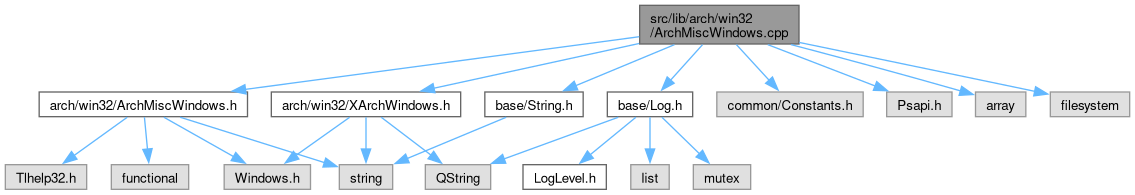
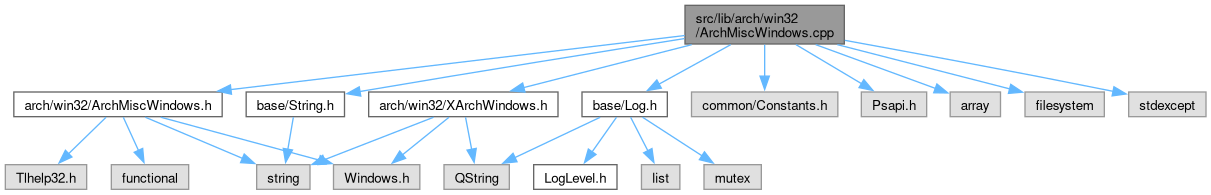
Deploying to gh-pages from @ PterX/synergy@86c8c66b6ef4296e9652ddb3b81552860b5e9a8a 🚀

diff --git a/ArchMiscWindows_8h_source.html b/ArchMiscWindows_8h_source.html
@@ -224,26 +224,26 @@ $(function(){initNavTree('ArchMiscWindows_8h_source.html','',''); });
 <div class="ttc" id="aclassArchMiscWindows_html_a0338c2fb1a7194e19af8961ef0db4e24a4caac1cd8b05302637732a78eb73315c"><div class="ttname"><a href="classArchMiscWindows.html#a0338c2fb1a7194e19af8961ef0db4e24a4caac1cd8b05302637732a78eb73315c">ArchMiscWindows::kDISPLAY</a></div><div class="ttdeci">@ kDISPLAY</div><div class="ttdef"><b>Definition</b> ArchMiscWindows.h:36</div></div>
 <div class="ttc" id="aclassArchMiscWindows_html_a0338c2fb1a7194e19af8961ef0db4e24a9f8aae41756526ccfd025d165c405327"><div class="ttname"><a href="classArchMiscWindows.html#a0338c2fb1a7194e19af8961ef0db4e24a9f8aae41756526ccfd025d165c405327">ArchMiscWindows::kIDLE</a></div><div class="ttdeci">@ kIDLE</div><div class="ttdef"><b>Definition</b> ArchMiscWindows.h:34</div></div>
 <div class="ttc" id="aclassArchMiscWindows_html_a0338c2fb1a7194e19af8961ef0db4e24aee344497aaeab143ada6f7ccb783d407"><div class="ttname"><a href="classArchMiscWindows.html#a0338c2fb1a7194e19af8961ef0db4e24aee344497aaeab143ada6f7ccb783d407">ArchMiscWindows::kSYSTEM</a></div><div class="ttdeci">@ kSYSTEM</div><div class="ttdef"><b>Definition</b> ArchMiscWindows.h:35</div></div>
-<div class="ttc" id="aclassArchMiscWindows_html_a078cdd8e880af3cb356061ac79610845"><div class="ttname"><a href="classArchMiscWindows.html#a078cdd8e880af3cb356061ac79610845">ArchMiscWindows::getActiveDesktopName</a></div><div class="ttdeci">static std::wstring getActiveDesktopName()</div><div class="ttdoc">Get the name of the active input desktop.</div><div class="ttdef"><b>Definition</b> ArchMiscWindows.cpp:388</div></div>
-<div class="ttc" id="aclassArchMiscWindows_html_a1465a7b5acf3f1465a908c888542502c"><div class="ttname"><a href="classArchMiscWindows.html#a1465a7b5acf3f1465a908c888542502c">ArchMiscWindows::typeOfValue</a></div><div class="ttdeci">static EValueType typeOfValue(HKEY key, const TCHAR *name)</div><div class="ttdoc">Get type of value.</div><div class="ttdef"><b>Definition</b> ArchMiscWindows.cpp:137</div></div>
-<div class="ttc" id="aclassArchMiscWindows_html_a15c0192d41ccadf6cf65bb9319bc4834"><div class="ttname"><a href="classArchMiscWindows.html#a15c0192d41ccadf6cf65bb9319bc4834">ArchMiscWindows::readValueString</a></div><div class="ttdeci">static std::wstring readValueString(HKEY, const TCHAR *name)</div><div class="ttdoc">Read a string value from the registry.</div><div class="ttdef"><b>Definition</b> ArchMiscWindows.cpp:214</div></div>
-<div class="ttc" id="aclassArchMiscWindows_html_a1879b7be8bafc875ab8f754395c1a876"><div class="ttname"><a href="classArchMiscWindows.html#a1879b7be8bafc875ab8f754395c1a876">ArchMiscWindows::init</a></div><div class="ttdeci">static void init()</div><div class="ttdoc">Initialize.</div><div class="ttdef"><b>Definition</b> ArchMiscWindows.cpp:61</div></div>
-<div class="ttc" id="aclassArchMiscWindows_html_a33b732aca7bfd321314e36cef5d93603"><div class="ttname"><a href="classArchMiscWindows.html#a33b732aca7bfd321314e36cef5d93603">ArchMiscWindows::addBusyState</a></div><div class="ttdeci">static void addBusyState(DWORD busyModes)</div><div class="ttdoc">Disable power saving.</div><div class="ttdef"><b>Definition</b> ArchMiscWindows.cpp:232</div></div>
-<div class="ttc" id="aclassArchMiscWindows_html_a42e8874844025237a54a91a8920b09e3"><div class="ttname"><a href="classArchMiscWindows.html#a42e8874844025237a54a91a8920b09e3">ArchMiscWindows::wakeupDisplay</a></div><div class="ttdeci">static void wakeupDisplay()</div><div class="ttdoc">Briefly interrupt power saving.</div><div class="ttdef"><b>Definition</b> ArchMiscWindows.cpp:280</div></div>
-<div class="ttc" id="aclassArchMiscWindows_html_a5f37ce0559b29a5fd7b7af18364182f2"><div class="ttname"><a href="classArchMiscWindows.html#a5f37ce0559b29a5fd7b7af18364182f2">ArchMiscWindows::readValueInt</a></div><div class="ttdeci">static DWORD readValueInt(HKEY, const TCHAR *name)</div><div class="ttdoc">Read a DWORD value from the registry.</div><div class="ttdef"><b>Definition</b> ArchMiscWindows.cpp:220</div></div>
-<div class="ttc" id="aclassArchMiscWindows_html_a655e5e0e3474d1c3408a49860fe57656"><div class="ttname"><a href="classArchMiscWindows.html#a655e5e0e3474d1c3408a49860fe57656">ArchMiscWindows::removeBusyState</a></div><div class="ttdeci">static void removeBusyState(DWORD busyModes)</div><div class="ttdoc">Enable power saving.</div><div class="ttdef"><b>Definition</b> ArchMiscWindows.cpp:238</div></div>
-<div class="ttc" id="aclassArchMiscWindows_html_a6666c54a8ce6bf017ad327d22d8c451c"><div class="ttname"><a href="classArchMiscWindows.html#a6666c54a8ce6bf017ad327d22d8c451c">ArchMiscWindows::getParentProcessName</a></div><div class="ttdeci">static bool getParentProcessName(std::wstring &amp;name)</div><div class="ttdoc">Returns true if we got the parent process name.</div><div class="ttdef"><b>Definition</b> ArchMiscWindows.cpp:312</div></div>
-<div class="ttc" id="aclassArchMiscWindows_html_a6677555883629f679673992f3430a94f"><div class="ttname"><a href="classArchMiscWindows.html#a6677555883629f679673992f3430a94f">ArchMiscWindows::setValue</a></div><div class="ttdeci">static void setValue(HKEY key, const TCHAR *name, const std::string &amp;value)</div><div class="ttdoc">Set a string value in the registry.</div><div class="ttdef"><b>Definition</b> ArchMiscWindows.cpp:159</div></div>
-<div class="ttc" id="aclassArchMiscWindows_html_a688c5f22c8e1552a8f39897cb24610fd"><div class="ttname"><a href="classArchMiscWindows.html#a688c5f22c8e1552a8f39897cb24610fd">ArchMiscWindows::instanceWin32</a></div><div class="ttdeci">static HINSTANCE instanceWin32()</div><div class="ttdoc">Gets the window instance saved at program start.</div><div class="ttdef"><b>Definition</b> ArchMiscWindows.cpp:376</div></div>
-<div class="ttc" id="aclassArchMiscWindows_html_a6a0f920c122e781c4a3bcbae40a82a0e"><div class="ttname"><a href="classArchMiscWindows.html#a6a0f920c122e781c4a3bcbae40a82a0e">ArchMiscWindows::guardRuntimeVersion</a></div><div class="ttdeci">static void guardRuntimeVersion()</div><div class="ttdoc">Prevent hard to troubleshoot errors, e.g. access violations.</div><div class="ttdef"><b>Definition</b> ArchMiscWindows.cpp:447</div></div>
+<div class="ttc" id="aclassArchMiscWindows_html_a078cdd8e880af3cb356061ac79610845"><div class="ttname"><a href="classArchMiscWindows.html#a078cdd8e880af3cb356061ac79610845">ArchMiscWindows::getActiveDesktopName</a></div><div class="ttdeci">static std::wstring getActiveDesktopName()</div><div class="ttdoc">Get the name of the active input desktop.</div><div class="ttdef"><b>Definition</b> ArchMiscWindows.cpp:385</div></div>
+<div class="ttc" id="aclassArchMiscWindows_html_a1465a7b5acf3f1465a908c888542502c"><div class="ttname"><a href="classArchMiscWindows.html#a1465a7b5acf3f1465a908c888542502c">ArchMiscWindows::typeOfValue</a></div><div class="ttdeci">static EValueType typeOfValue(HKEY key, const TCHAR *name)</div><div class="ttdoc">Get type of value.</div><div class="ttdef"><b>Definition</b> ArchMiscWindows.cpp:138</div></div>
+<div class="ttc" id="aclassArchMiscWindows_html_a15c0192d41ccadf6cf65bb9319bc4834"><div class="ttname"><a href="classArchMiscWindows.html#a15c0192d41ccadf6cf65bb9319bc4834">ArchMiscWindows::readValueString</a></div><div class="ttdeci">static std::wstring readValueString(HKEY, const TCHAR *name)</div><div class="ttdoc">Read a string value from the registry.</div><div class="ttdef"><b>Definition</b> ArchMiscWindows.cpp:211</div></div>
+<div class="ttc" id="aclassArchMiscWindows_html_a1879b7be8bafc875ab8f754395c1a876"><div class="ttname"><a href="classArchMiscWindows.html#a1879b7be8bafc875ab8f754395c1a876">ArchMiscWindows::init</a></div><div class="ttdeci">static void init()</div><div class="ttdoc">Initialize.</div><div class="ttdef"><b>Definition</b> ArchMiscWindows.cpp:62</div></div>
+<div class="ttc" id="aclassArchMiscWindows_html_a33b732aca7bfd321314e36cef5d93603"><div class="ttname"><a href="classArchMiscWindows.html#a33b732aca7bfd321314e36cef5d93603">ArchMiscWindows::addBusyState</a></div><div class="ttdeci">static void addBusyState(DWORD busyModes)</div><div class="ttdoc">Disable power saving.</div><div class="ttdef"><b>Definition</b> ArchMiscWindows.cpp:229</div></div>
+<div class="ttc" id="aclassArchMiscWindows_html_a42e8874844025237a54a91a8920b09e3"><div class="ttname"><a href="classArchMiscWindows.html#a42e8874844025237a54a91a8920b09e3">ArchMiscWindows::wakeupDisplay</a></div><div class="ttdeci">static void wakeupDisplay()</div><div class="ttdoc">Briefly interrupt power saving.</div><div class="ttdef"><b>Definition</b> ArchMiscWindows.cpp:277</div></div>
+<div class="ttc" id="aclassArchMiscWindows_html_a5f37ce0559b29a5fd7b7af18364182f2"><div class="ttname"><a href="classArchMiscWindows.html#a5f37ce0559b29a5fd7b7af18364182f2">ArchMiscWindows::readValueInt</a></div><div class="ttdeci">static DWORD readValueInt(HKEY, const TCHAR *name)</div><div class="ttdoc">Read a DWORD value from the registry.</div><div class="ttdef"><b>Definition</b> ArchMiscWindows.cpp:217</div></div>
+<div class="ttc" id="aclassArchMiscWindows_html_a655e5e0e3474d1c3408a49860fe57656"><div class="ttname"><a href="classArchMiscWindows.html#a655e5e0e3474d1c3408a49860fe57656">ArchMiscWindows::removeBusyState</a></div><div class="ttdeci">static void removeBusyState(DWORD busyModes)</div><div class="ttdoc">Enable power saving.</div><div class="ttdef"><b>Definition</b> ArchMiscWindows.cpp:235</div></div>
+<div class="ttc" id="aclassArchMiscWindows_html_a6666c54a8ce6bf017ad327d22d8c451c"><div class="ttname"><a href="classArchMiscWindows.html#a6666c54a8ce6bf017ad327d22d8c451c">ArchMiscWindows::getParentProcessName</a></div><div class="ttdeci">static bool getParentProcessName(std::wstring &amp;name)</div><div class="ttdoc">Returns true if we got the parent process name.</div><div class="ttdef"><b>Definition</b> ArchMiscWindows.cpp:309</div></div>
+<div class="ttc" id="aclassArchMiscWindows_html_a6677555883629f679673992f3430a94f"><div class="ttname"><a href="classArchMiscWindows.html#a6677555883629f679673992f3430a94f">ArchMiscWindows::setValue</a></div><div class="ttdeci">static void setValue(HKEY key, const TCHAR *name, const std::string &amp;value)</div><div class="ttdoc">Set a string value in the registry.</div><div class="ttdef"><b>Definition</b> ArchMiscWindows.cpp:160</div></div>
+<div class="ttc" id="aclassArchMiscWindows_html_a688c5f22c8e1552a8f39897cb24610fd"><div class="ttname"><a href="classArchMiscWindows.html#a688c5f22c8e1552a8f39897cb24610fd">ArchMiscWindows::instanceWin32</a></div><div class="ttdeci">static HINSTANCE instanceWin32()</div><div class="ttdoc">Gets the window instance saved at program start.</div><div class="ttdef"><b>Definition</b> ArchMiscWindows.cpp:373</div></div>
+<div class="ttc" id="aclassArchMiscWindows_html_a6a0f920c122e781c4a3bcbae40a82a0e"><div class="ttname"><a href="classArchMiscWindows.html#a6a0f920c122e781c4a3bcbae40a82a0e">ArchMiscWindows::guardRuntimeVersion</a></div><div class="ttdeci">static void guardRuntimeVersion()</div><div class="ttdoc">Prevent hard to troubleshoot errors, e.g. access violations.</div><div class="ttdef"><b>Definition</b> ArchMiscWindows.cpp:444</div></div>
 <div class="ttc" id="aclassArchMiscWindows_html_a7be4c53b9504a222ea81c1d2e37d00c5"><div class="ttname"><a href="classArchMiscWindows.html#a7be4c53b9504a222ea81c1d2e37d00c5">ArchMiscWindows::RunFunc</a></div><div class="ttdeci">std::function&lt; int(void)&gt; RunFunc</div><div class="ttdef"><b>Definition</b> ArchMiscWindows.h:39</div></div>
-<div class="ttc" id="aclassArchMiscWindows_html_a7d9328738cdd03178e9046a6ec637206"><div class="ttname"><a href="classArchMiscWindows.html#a7d9328738cdd03178e9046a6ec637206">ArchMiscWindows::deleteKey</a></div><div class="ttdeci">static void deleteKey(HKEY parent, const TCHAR *name)</div><div class="ttdoc">Delete a key (which should have no subkeys).</div><div class="ttdef"><b>Definition</b> ArchMiscWindows.cpp:128</div></div>
-<div class="ttc" id="aclassArchMiscWindows_html_a7fcb454e90057f49c18909ea1a2cde4d"><div class="ttname"><a href="classArchMiscWindows.html#a7fcb454e90057f49c18909ea1a2cde4d">ArchMiscWindows::addKey</a></div><div class="ttdeci">static HKEY addKey(HKEY parent, const TCHAR *child)</div><div class="ttdoc">Open/create and return a registry key, closing the parent key.</div><div class="ttdef"><b>Definition</b> ArchMiscWindows.cpp:77</div></div>
-<div class="ttc" id="aclassArchMiscWindows_html_a8872326e6b1f2a9ff8e0fd40bedc76b4"><div class="ttname"><a href="classArchMiscWindows.html#a8872326e6b1f2a9ff8e0fd40bedc76b4">ArchMiscWindows::closeKey</a></div><div class="ttdeci">static void closeKey(HKEY)</div><div class="ttdoc">Close a key.</div><div class="ttdef"><b>Definition</b> ArchMiscWindows.cpp:120</div></div>
-<div class="ttc" id="aclassArchMiscWindows_html_a8ac709b408c4e04873f130b129849b81"><div class="ttname"><a href="classArchMiscWindows.html#a8ac709b408c4e04873f130b129849b81">ArchMiscWindows::setInstanceWin32</a></div><div class="ttdeci">static void setInstanceWin32(HINSTANCE instance)</div><div class="ttdoc">Saves the window instance for later use.</div><div class="ttdef"><b>Definition</b> ArchMiscWindows.cpp:382</div></div>
-<div class="ttc" id="aclassArchMiscWindows_html_abfa597a607ef86b942bae3dc15294c45"><div class="ttname"><a href="classArchMiscWindows.html#abfa597a607ef86b942bae3dc15294c45">ArchMiscWindows::wasLaunchedAsService</a></div><div class="ttdeci">static bool wasLaunchedAsService()</div><div class="ttdoc">Returns true if this process was launched via NT service host.</div><div class="ttdef"><b>Definition</b> ArchMiscWindows.cpp:301</div></div>
-<div class="ttc" id="aclassArchMiscWindows_html_acb3a0e4bd0af6f28cd132963961cb446"><div class="ttname"><a href="classArchMiscWindows.html#acb3a0e4bd0af6f28cd132963961cb446">ArchMiscWindows::openKey</a></div><div class="ttdeci">static HKEY openKey(HKEY parent, const TCHAR *child)</div><div class="ttdoc">Open and return a registry key, closing the parent key.</div><div class="ttdef"><b>Definition</b> ArchMiscWindows.cpp:67</div></div>
-<div class="ttc" id="aclassArchMiscWindows_html_ad59b0d5542731855a07ab50c2de29296"><div class="ttname"><a href="classArchMiscWindows.html#ad59b0d5542731855a07ab50c2de29296">ArchMiscWindows::isProcessElevated</a></div><div class="ttdeci">static bool isProcessElevated()</div><div class="ttdoc">Returns true if the process is running with elevated privileges (i.e. as admin).</div><div class="ttdef"><b>Definition</b> ArchMiscWindows.cpp:508</div></div>
+<div class="ttc" id="aclassArchMiscWindows_html_a7d9328738cdd03178e9046a6ec637206"><div class="ttname"><a href="classArchMiscWindows.html#a7d9328738cdd03178e9046a6ec637206">ArchMiscWindows::deleteKey</a></div><div class="ttdeci">static void deleteKey(HKEY parent, const TCHAR *name)</div><div class="ttdoc">Delete a key (which should have no subkeys).</div><div class="ttdef"><b>Definition</b> ArchMiscWindows.cpp:129</div></div>
+<div class="ttc" id="aclassArchMiscWindows_html_a7fcb454e90057f49c18909ea1a2cde4d"><div class="ttname"><a href="classArchMiscWindows.html#a7fcb454e90057f49c18909ea1a2cde4d">ArchMiscWindows::addKey</a></div><div class="ttdeci">static HKEY addKey(HKEY parent, const TCHAR *child)</div><div class="ttdoc">Open/create and return a registry key, closing the parent key.</div><div class="ttdef"><b>Definition</b> ArchMiscWindows.cpp:78</div></div>
+<div class="ttc" id="aclassArchMiscWindows_html_a8872326e6b1f2a9ff8e0fd40bedc76b4"><div class="ttname"><a href="classArchMiscWindows.html#a8872326e6b1f2a9ff8e0fd40bedc76b4">ArchMiscWindows::closeKey</a></div><div class="ttdeci">static void closeKey(HKEY)</div><div class="ttdoc">Close a key.</div><div class="ttdef"><b>Definition</b> ArchMiscWindows.cpp:121</div></div>
+<div class="ttc" id="aclassArchMiscWindows_html_a8ac709b408c4e04873f130b129849b81"><div class="ttname"><a href="classArchMiscWindows.html#a8ac709b408c4e04873f130b129849b81">ArchMiscWindows::setInstanceWin32</a></div><div class="ttdeci">static void setInstanceWin32(HINSTANCE instance)</div><div class="ttdoc">Saves the window instance for later use.</div><div class="ttdef"><b>Definition</b> ArchMiscWindows.cpp:379</div></div>
+<div class="ttc" id="aclassArchMiscWindows_html_abfa597a607ef86b942bae3dc15294c45"><div class="ttname"><a href="classArchMiscWindows.html#abfa597a607ef86b942bae3dc15294c45">ArchMiscWindows::wasLaunchedAsService</a></div><div class="ttdeci">static bool wasLaunchedAsService()</div><div class="ttdoc">Returns true if this process was launched via NT service host.</div><div class="ttdef"><b>Definition</b> ArchMiscWindows.cpp:298</div></div>
+<div class="ttc" id="aclassArchMiscWindows_html_acb3a0e4bd0af6f28cd132963961cb446"><div class="ttname"><a href="classArchMiscWindows.html#acb3a0e4bd0af6f28cd132963961cb446">ArchMiscWindows::openKey</a></div><div class="ttdeci">static HKEY openKey(HKEY parent, const TCHAR *child)</div><div class="ttdoc">Open and return a registry key, closing the parent key.</div><div class="ttdef"><b>Definition</b> ArchMiscWindows.cpp:68</div></div>
+<div class="ttc" id="aclassArchMiscWindows_html_ad59b0d5542731855a07ab50c2de29296"><div class="ttname"><a href="classArchMiscWindows.html#ad59b0d5542731855a07ab50c2de29296">ArchMiscWindows::isProcessElevated</a></div><div class="ttdeci">static bool isProcessElevated()</div><div class="ttdoc">Returns true if the process is running with elevated privileges (i.e. as admin).</div><div class="ttdef"><b>Definition</b> ArchMiscWindows.cpp:505</div></div>
 <div class="ttc" id="aclassArchMiscWindows_html_adfd1eff8096cb641a8d68eb465e63204"><div class="ttname"><a href="classArchMiscWindows.html#adfd1eff8096cb641a8d68eb465e63204">ArchMiscWindows::EValueType</a></div><div class="ttdeci">EValueType</div><div class="ttdef"><b>Definition</b> ArchMiscWindows.h:25</div></div>
 <div class="ttc" id="aclassArchMiscWindows_html_adfd1eff8096cb641a8d68eb465e63204a02cdafaf8c5c3d167c09ecfafdacd201"><div class="ttname"><a href="classArchMiscWindows.html#adfd1eff8096cb641a8d68eb465e63204a02cdafaf8c5c3d167c09ecfafdacd201">ArchMiscWindows::kSTRING</a></div><div class="ttdeci">@ kSTRING</div><div class="ttdef"><b>Definition</b> ArchMiscWindows.h:29</div></div>
 <div class="ttc" id="aclassArchMiscWindows_html_adfd1eff8096cb641a8d68eb465e63204a4ad1c6d1667f4b16b584f5b9b134f8c6"><div class="ttname"><a href="classArchMiscWindows.html#adfd1eff8096cb641a8d68eb465e63204a4ad1c6d1667f4b16b584f5b9b134f8c6">ArchMiscWindows::kUNKNOWN</a></div><div class="ttdeci">@ kUNKNOWN</div><div class="ttdef"><b>Definition</b> ArchMiscWindows.h:26</div></div>

diff --git a/ArchMiscWindows_8cpp.html b/ArchMiscWindows_8cpp.html
@@ -102,48 +102,51 @@ $(function(){initNavTree('ArchMiscWindows_8cpp.html','',''); });
 <code>#include &lt;Psapi.h&gt;</code><br />
 <code>#include &lt;array&gt;</code><br />
 <code>#include &lt;filesystem&gt;</code><br />
+<code>#include &lt;stdexcept&gt;</code><br />
 </div><div class="textblock"><div class="dynheader">
 Include dependency graph for ArchMiscWindows.cpp:</div>
 <div class="dyncontent">
 <div class="center"><img src="ArchMiscWindows_8cpp__incl.png" border="0" usemap="#asrc_2lib_2arch_2win32_2ArchMiscWindows_8cpp" loading="lazy" alt=""/></div>
 <map name="asrc_2lib_2arch_2win32_2ArchMiscWindows_8cpp" id="asrc_2lib_2arch_2win32_2ArchMiscWindows_8cpp">
-<area shape="rect" title=" " alt="" coords="640,5,799,44"/>
-<area shape="rect" href="ArchMiscWindows_8h.html" title=" " alt="" coords="39,92,248,117"/>
-<area shape="poly" title=" " alt="" coords="639,39,246,92,245,87,639,34"/>
-<area shape="rect" href="XArchWindows_8h.html" title=" " alt="" coords="271,92,461,117"/>
-<area shape="poly" title=" " alt="" coords="637,44,434,91,433,86,642,43"/>
-<area shape="rect" href="Log_8h.html" title=" " alt="" coords="607,92,693,117"/>
-<area shape="poly" title=" " alt="" coords="705,43,672,83,669,78,700,46"/>
-<area shape="rect" href="String_8h.html" title=" " alt="" coords="485,92,583,117"/>
-<area shape="poly" title=" " alt="" coords="677,44,577,88,575,83,672,45"/>
-<area shape="rect" title=" " alt="" coords="717,92,863,117"/>
-<area shape="poly" title=" " alt="" coords="737,42,772,81,767,79,735,47"/>
-<area shape="rect" title=" " alt="" coords="887,92,952,117"/>
-<area shape="poly" title=" " alt="" coords="768,42,878,86,873,86,767,47"/>
-<area shape="rect" title=" " alt="" coords="976,92,1026,117"/>
-<area shape="poly" title=" " alt="" coords="791,42,963,91,958,91,791,47"/>
-<area shape="rect" title=" " alt="" coords="1050,92,1130,117"/>
-<area shape="poly" title=" " alt="" coords="799,40,1038,91,1032,92,799,45"/>
-<area shape="rect" title=" " alt="" coords="339,165,393,189"/>
-<area shape="poly" title=" " alt="" coords="181,115,327,161,322,164,180,120"/>
-<area shape="rect" title=" " alt="" coords="224,165,310,189"/>
-<area shape="poly" title=" " alt="" coords="165,115,236,156,231,157,163,120"/>
+<area shape="rect" title=" " alt="" coords="685,5,844,44"/>
+<area shape="rect" href="ArchMiscWindows_8h.html" title=" " alt="" coords="14,92,222,117"/>
+<area shape="poly" title=" " alt="" coords="685,38,231,92,230,87,685,33"/>
+<area shape="rect" href="XArchWindows_8h.html" title=" " alt="" coords="369,92,558,117"/>
+<area shape="poly" title=" " alt="" coords="694,44,524,90,523,85,689,45"/>
+<area shape="rect" href="Log_8h.html" title=" " alt="" coords="582,92,667,117"/>
+<area shape="poly" title=" " alt="" coords="733,44,660,87,658,82,728,45"/>
+<area shape="rect" href="String_8h.html" title=" " alt="" coords="246,92,344,117"/>
+<area shape="poly" title=" " alt="" coords="682,40,360,94,359,89,687,37"/>
+<area shape="rect" title=" " alt="" coords="692,92,838,117"/>
+<area shape="poly" title=" " alt="" coords="766,43,767,78,763,75,763,47"/>
+<area shape="rect" title=" " alt="" coords="861,92,927,117"/>
+<area shape="poly" title=" " alt="" coords="797,42,864,84,859,83,795,47"/>
+<area shape="rect" title=" " alt="" coords="950,92,1000,117"/>
+<area shape="poly" title=" " alt="" coords="816,42,938,89,933,88,815,47"/>
+<area shape="rect" title=" " alt="" coords="1025,92,1104,117"/>
+<area shape="poly" title=" " alt="" coords="838,42,1013,89,1008,89,837,47"/>
+<area shape="rect" title=" " alt="" coords="1129,92,1206,117"/>
+<area shape="poly" title=" " alt="" coords="845,38,1116,91,1111,92,845,43"/>
+<area shape="rect" title=" " alt="" coords="257,165,310,189"/>
+<area shape="poly" title=" " alt="" coords="146,115,245,157,240,159,145,120"/>
+<area shape="rect" title=" " alt="" coords="334,165,420,189"/>
+<area shape="poly" title=" " alt="" coords="161,115,322,159,318,162,160,120"/>
 <area shape="rect" title=" " alt="" coords="5,165,87,189"/>
-<area shape="poly" title=" " alt="" coords="130,117,75,158,72,153,125,118"/>
+<area shape="poly" title=" " alt="" coords="109,116,70,156,67,152,104,118"/>
 <area shape="rect" title=" " alt="" coords="111,165,189,189"/>
-<area shape="poly" title=" " alt="" coords="146,115,150,150,145,148,143,119"/>
-<area shape="poly" title=" " alt="" coords="368,115,368,151,364,148,364,119"/>
-<area shape="poly" title=" " alt="" coords="352,116,297,158,295,153,347,118"/>
-<area shape="rect" title=" " alt="" coords="425,165,491,189"/>
-<area shape="poly" title=" " alt="" coords="382,115,434,156,428,155,380,120"/>
-<area shape="poly" title=" " alt="" coords="621,117,505,161,503,156,616,118"/>
-<area shape="rect" href="LogLevel_8h.html" title=" " alt="" coords="523,165,606,189"/>
-<area shape="poly" title=" " alt="" coords="638,116,591,157,589,152,633,118"/>
-<area shape="rect" title=" " alt="" coords="631,165,669,189"/>
-<area shape="poly" title=" " alt="" coords="652,115,652,151,648,147,648,119"/>
-<area shape="rect" title=" " alt="" coords="693,165,751,189"/>
-<area shape="poly" title=" " alt="" coords="663,115,702,154,697,153,661,120"/>
-<area shape="poly" title=" " alt="" coords="509,117,408,161,407,156,504,118"/>
+<area shape="poly" title=" " alt="" coords="125,115,141,151,136,150,122,119"/>
+<area shape="poly" title=" " alt="" coords="436,117,325,162,324,157,431,118"/>
+<area shape="poly" title=" " alt="" coords="452,116,404,157,401,152,447,118"/>
+<area shape="rect" title=" " alt="" coords="444,165,509,189"/>
+<area shape="poly" title=" " alt="" coords="467,115,474,151,469,148,464,119"/>
+<area shape="poly" title=" " alt="" coords="603,117,516,160,514,155,598,118"/>
+<area shape="rect" href="LogLevel_8h.html" title=" " alt="" coords="534,165,617,189"/>
+<area shape="poly" title=" " alt="" coords="619,116,594,154,591,150,614,118"/>
+<area shape="rect" title=" " alt="" coords="641,165,680,189"/>
+<area shape="poly" title=" " alt="" coords="632,115,650,152,646,150,629,120"/>
+<area shape="rect" title=" " alt="" coords="704,165,761,189"/>
+<area shape="poly" title=" " alt="" coords="643,115,705,157,700,156,642,120"/>
+<area shape="poly" title=" " alt="" coords="295,115,290,151,286,148,291,119"/>
 </map>
 </div>
 </div><table class="memberdecls">
@@ -180,7 +183,7 @@ Variables</h2></td></tr>
       </table>
 </div><div class="memdoc">
 <b>Value:</b><div class="fragment"><div class="line">OutputDebugStringA((<a class="code hl_function" href="namespacedeskflow_1_1string.html#aaf08864e3398b76761c6626b623b9a27">deskflow::string::sprintf</a>((<a class="code hl_variable" href="#a46af12de8b990c4fb4dfa9565f44c576">s_binaryName</a> + <span class="stringliteral">&quot;: &quot;</span> + message + <span class="stringliteral">&quot;\n&quot;</span>).c_str(), __VA_ARGS__)).c_str())</div>
-<div class="ttc" id="aArchMiscWindows_8cpp_html_a46af12de8b990c4fb4dfa9565f44c576"><div class="ttname"><a href="#a46af12de8b990c4fb4dfa9565f44c576">s_binaryName</a></div><div class="ttdeci">const std::string s_binaryName</div><div class="ttdef"><b>Definition</b> ArchMiscWindows.cpp:49</div></div>
+<div class="ttc" id="aArchMiscWindows_8cpp_html_a46af12de8b990c4fb4dfa9565f44c576"><div class="ttname"><a href="#a46af12de8b990c4fb4dfa9565f44c576">s_binaryName</a></div><div class="ttdeci">const std::string s_binaryName</div><div class="ttdef"><b>Definition</b> ArchMiscWindows.cpp:50</div></div>
 <div class="ttc" id="anamespacedeskflow_1_1string_html_aaf08864e3398b76761c6626b623b9a27"><div class="ttname"><a href="namespacedeskflow_1_1string.html#aaf08864e3398b76761c6626b623b9a27">deskflow::string::sprintf</a></div><div class="ttdeci">std::string sprintf(const char *fmt,...)</div><div class="ttdoc">Print a string using sprintf-style formatting.</div><div class="ttdef"><b>Definition</b> String.cpp:106</div></div>
 </div><!-- fragment -->
 </div>
